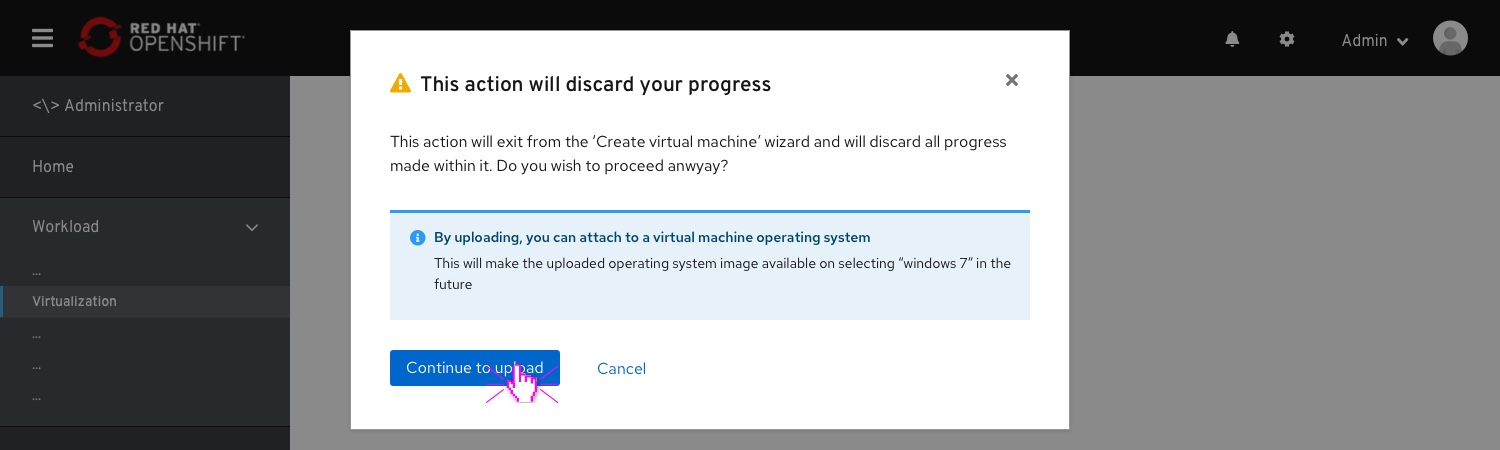
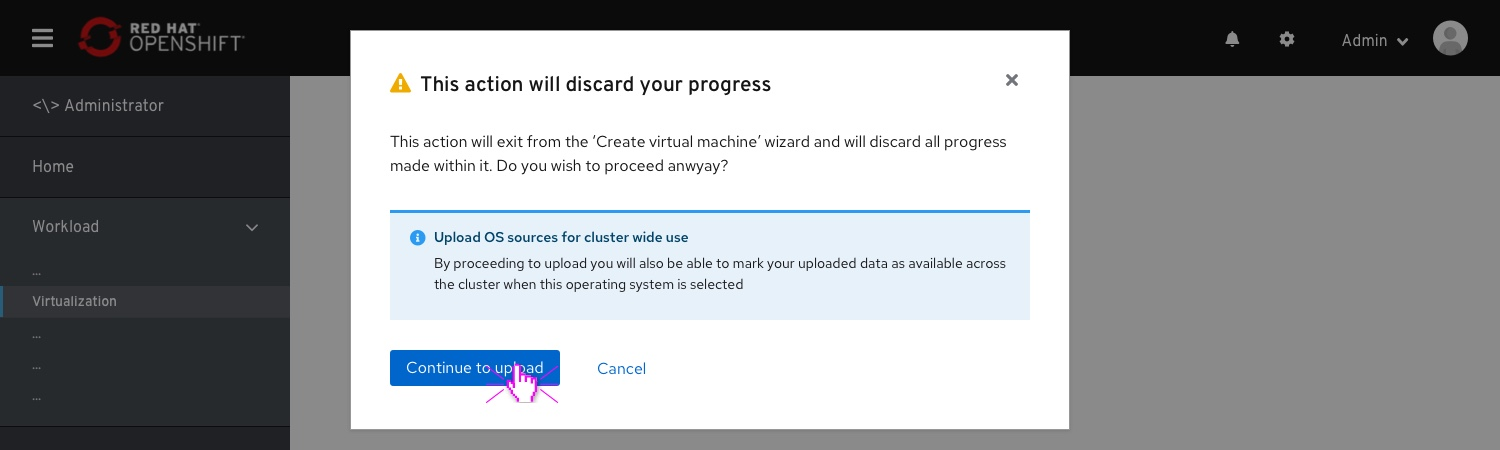
fixing innfo text on alert modal

Changed region(s): [[0.276, 0.4978, 0.6747, 0.6533]]

diff --git a/designs/virtualization/4.6/Add-os-image-to-common-template/add-os-image-to-common-template 4.6.md b/designs/virtualization/4.6/Add-os-image-to-common-template/add-os-image-to-common-template 4.6.md
@@ -31,7 +31,7 @@ This time, the user selects an OS without an available image/source.
 
 The user will be presented with a warning message notifying that no OS image/source detected.
 The user can either click the "Upload and attach..." action to couple a new OS image to the OS selection, or to provide a source on the field below.
-A “source” field (previously called “source”) will present itself, indented.
+A “source” field (previously called “source”) will present itself.
 
 !["Create VM session will be discarded"](img/Admin-create-4.6-0-3.jpg)
 
